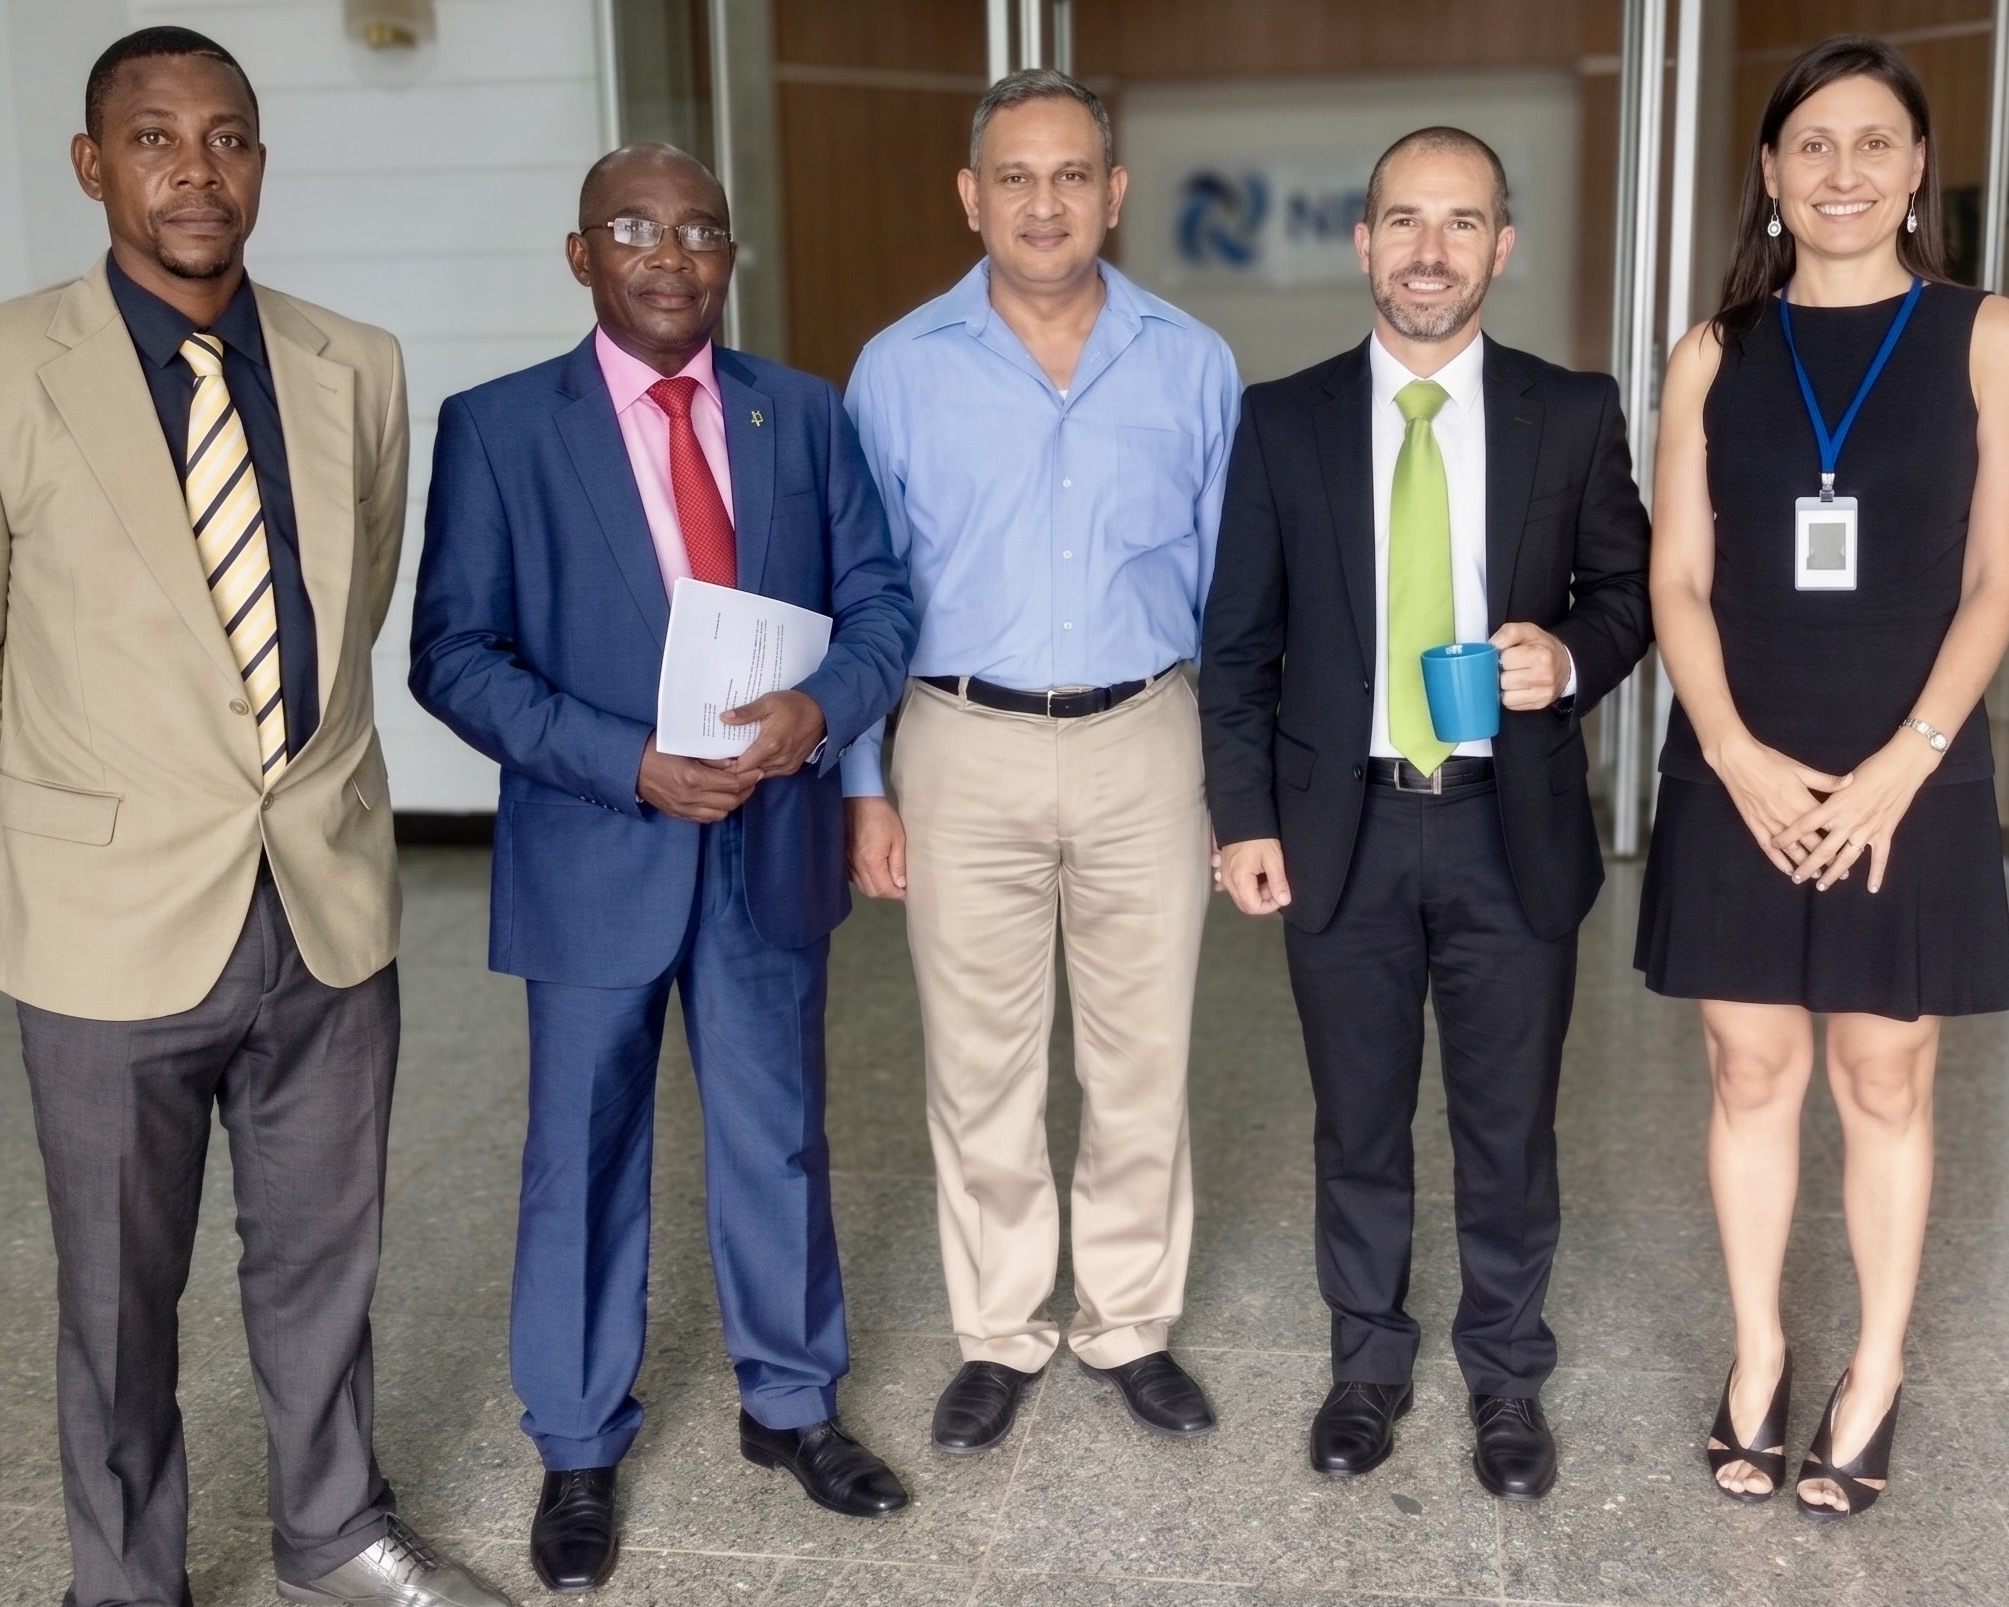
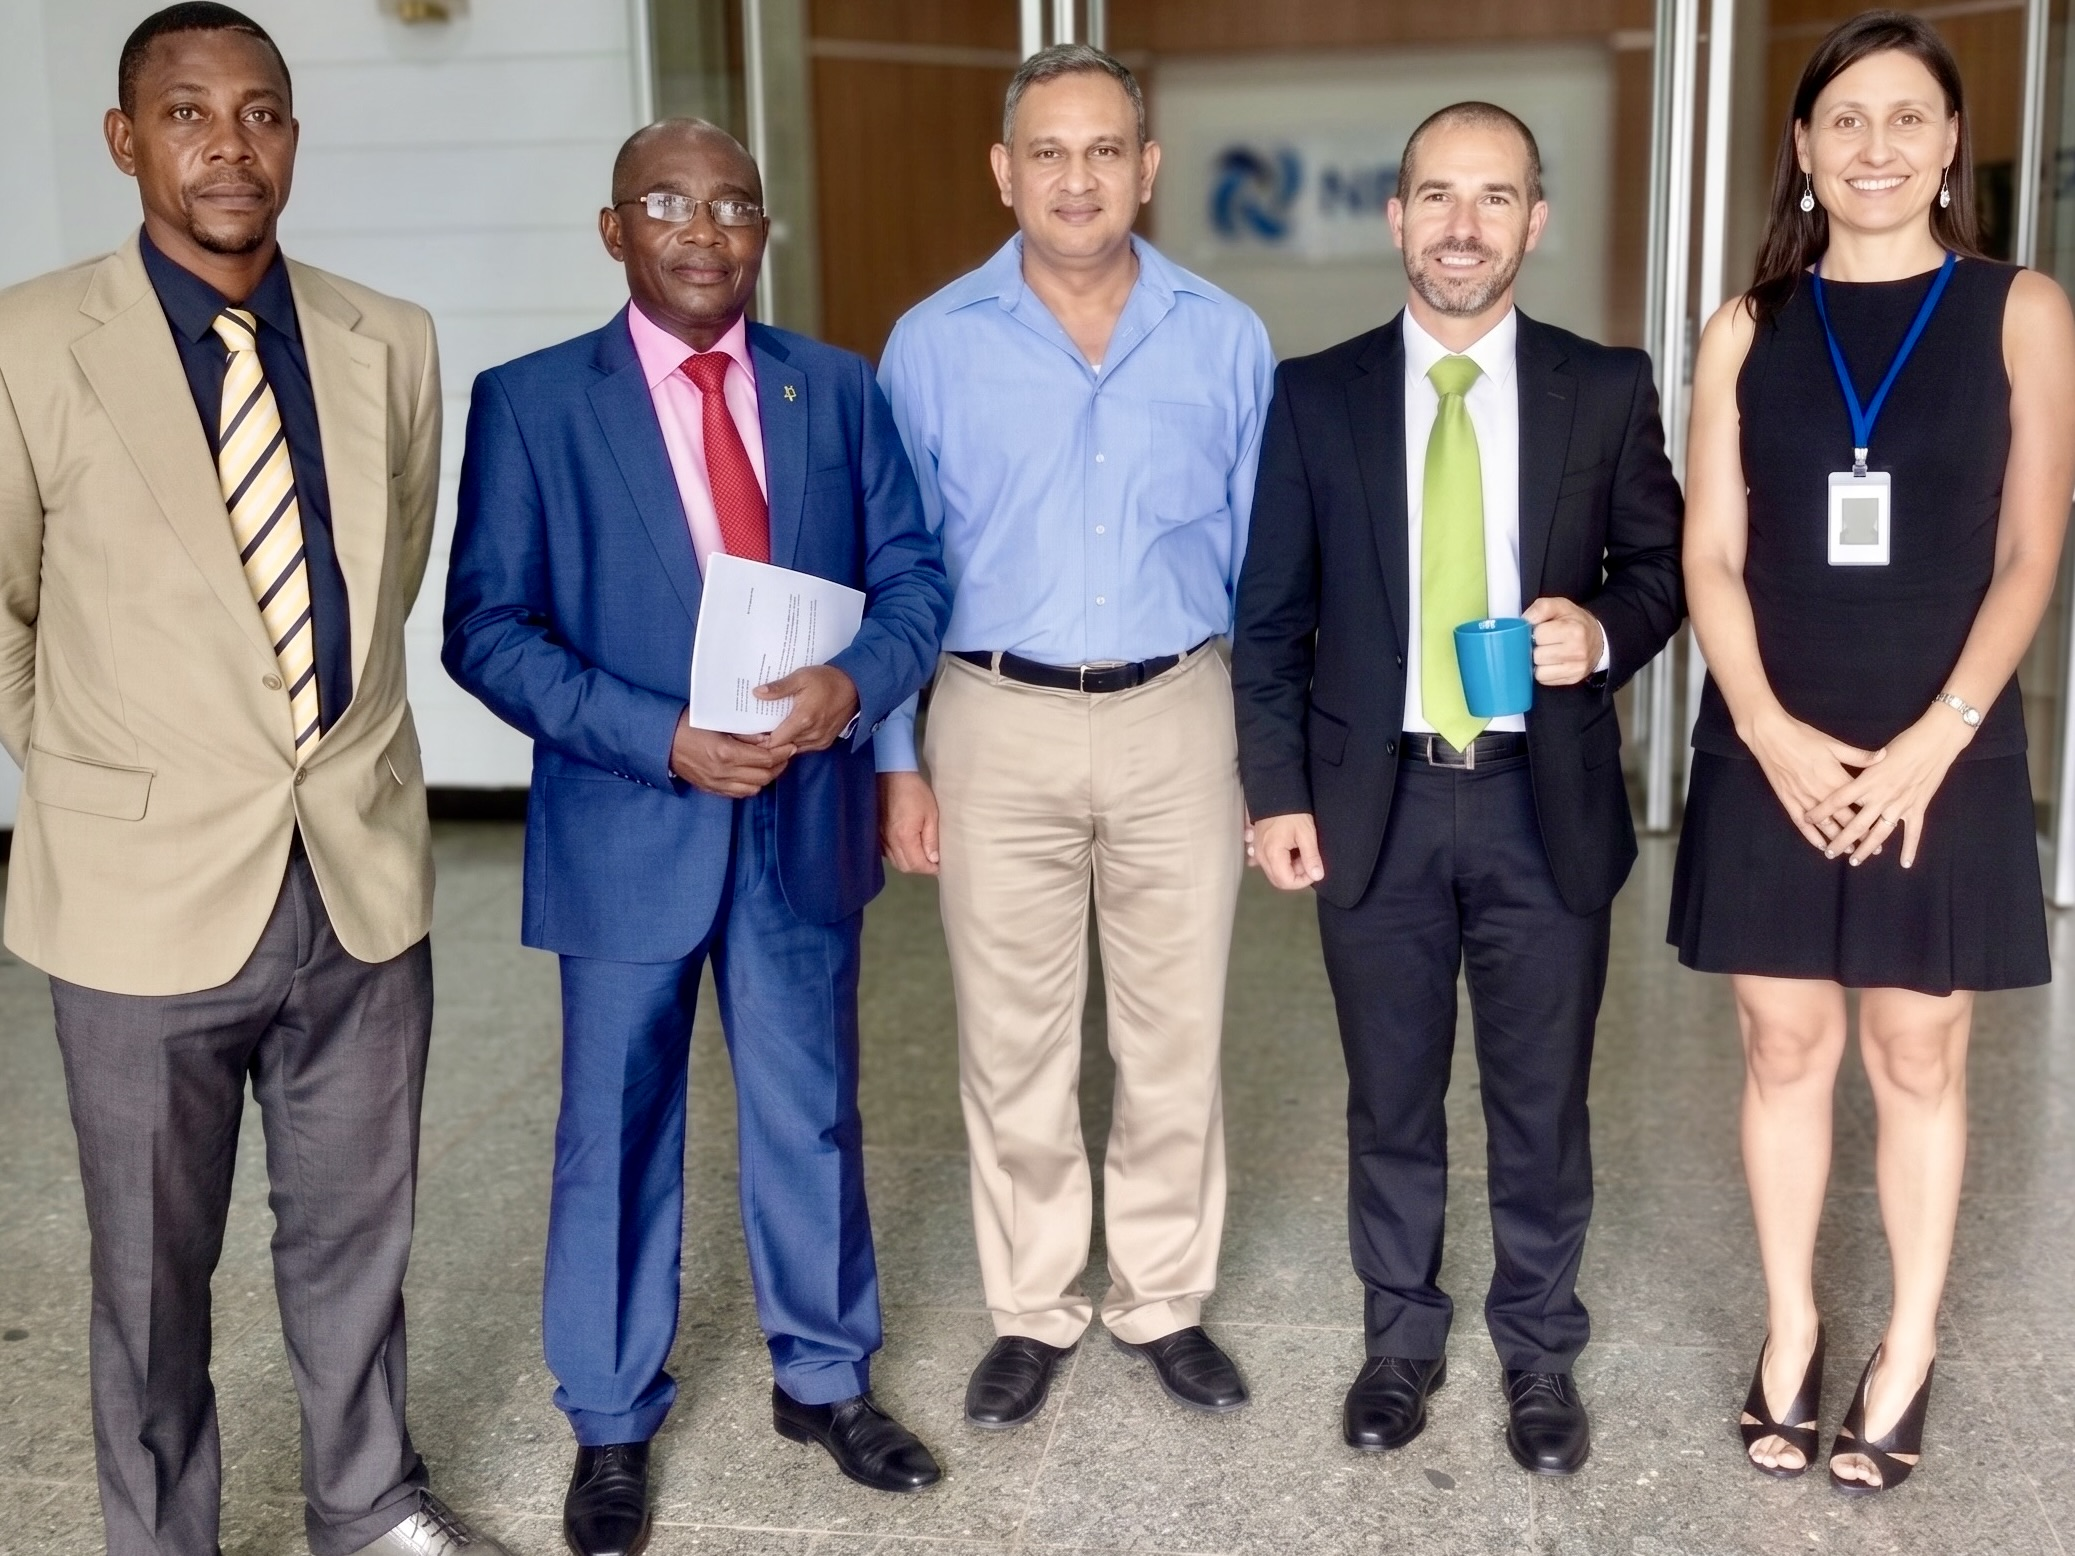
Add files via upload

diff --git a/index.html b/index.html
@@ -119,8 +119,8 @@
                         <h4 class="text-brand-dark font-bold text-2xl md:text-3xl mb-3">Trabajo de Campo</h4>
                         <p class="text-gray-600 text-base md:text-lg leading-relaxed max-w-4xl">Despliegue logístico y colecta de datos sobre el terreno.</p>
                     </div>
-                    <div class="relative h-[300px] md:h-[550px] lg:h-[750px] w-full overflow-hidden rounded-lg shadow-xl bg-black group">
-                        <img id="rotator-campo" src="img/campo-1.jpg" alt="Trabajo de campo" class="w-full h-full object-cover transition-all duration-500 ease-in-out opacity-100 group-hover:scale-105">
+                    <div class="relative w-full aspect-[4/3] overflow-hidden rounded-lg shadow-xl bg-black group">
+                        <img id="rotator-campo" src="img/campo-1.jpg" alt="Trabajo de campo" class="w-full h-full object-contain transition-all duration-500 ease-in-out opacity-100 group-hover:scale-102">
                     </div>
                 </div>
 
@@ -129,8 +129,8 @@
                         <h4 class="text-brand-dark font-bold text-2xl md:text-3xl mb-3">Capacitación Técnica</h4>
                         <p class="text-gray-600 text-base md:text-lg leading-relaxed max-w-4xl">Formación especializada a técnicos y supervisores, garantizando la transferencia de conocimiento tecnológico y la sostenibilidad operativa local.</p>
                     </div>
-                    <div class="relative h-[300px] md:h-[550px] lg:h-[750px] w-full overflow-hidden rounded-lg shadow-xl bg-black group">
-                        <img id="rotator-formacion" src="img/formacion-1.jpg" alt="Formación de agentes" class="w-full h-full object-cover transition-all duration-500 ease-in-out opacity-100 group-hover:scale-105">
+                    <div class="relative w-full aspect-[4/3] overflow-hidden rounded-lg shadow-xl bg-black group">
+                        <img id="rotator-formacion" src="img/formacion-1.jpg" alt="Formación de agentes" class="w-full h-full object-contain transition-all duration-500 ease-in-out opacity-100 group-hover:scale-102">
                     </div>
                 </div>
 
@@ -139,8 +139,8 @@
                         <h4 class="text-brand-dark font-bold text-2xl md:text-3xl mb-3">Modernización Administrativa</h4>
                         <p class="text-gray-600 text-base md:text-lg leading-relaxed max-w-4xl">Implementación de soluciones tecnológicas integrales para instituciones gubernamentales.</p>
                     </div>
-                    <div class="relative h-[300px] md:h-[550px] lg:h-[750px] w-full overflow-hidden rounded-lg shadow-xl bg-black group">
-                        <img id="rotator-modernizacion" src="img/modernizacion-1.jpg" alt="Modernización Administrativa" class="w-full h-full object-cover transition-all duration-500 ease-in-out opacity-100 group-hover:scale-105">
+                    <div class="relative w-full aspect-[4/3] overflow-hidden rounded-lg shadow-xl bg-black group">
+                        <img id="rotator-modernizacion" src="img/modernizacion-1.jpg" alt="Modernización Administrativa" class="w-full h-full object-contain transition-all duration-500 ease-in-out opacity-100 group-hover:scale-102">
                     </div>
                 </div>
 
@@ -149,8 +149,8 @@
                         <h4 class="text-brand-dark font-bold text-2xl md:text-3xl mb-3">Impacto Institucional</h4>
                         <p class="text-gray-600 text-base md:text-lg leading-relaxed max-w-4xl">Procesamiento final y entrega de resultados definitivos, aportando inteligencia para la toma de decisiones, transformando el dato crudo en políticas de desarrollo.</p>
                     </div>
-                    <div class="relative h-[300px] md:h-[550px] lg:h-[750px] w-full overflow-hidden rounded-lg shadow-xl bg-black group">
-                        <img id="rotator-impacto" src="img/impacto-1.jpg" alt="Entrega de resultados" class="w-full h-full object-cover transition-all duration-500 ease-in-out opacity-100 group-hover:scale-105">
+                    <div class="relative w-full aspect-[4/3] overflow-hidden rounded-lg shadow-xl bg-black group">
+                        <img id="rotator-impacto" src="img/impacto-1.jpg" alt="Entrega de resultados" class="w-full h-full object-contain transition-all duration-500 ease-in-out opacity-100 group-hover:scale-102">
                     </div>
                 </div>
 
@@ -159,8 +159,8 @@
                         <h4 class="text-brand-dark font-bold text-2xl md:text-3xl mb-3">Proyectos Tecnológicos Estratégicos</h4>
                         <p class="text-gray-600 text-base md:text-lg leading-relaxed max-w-4xl">Desarrollo e ingeniería aplicados a la inclusión digital. Ejecución de proyectos macro de divulgación y aplicaciones a medida para la ciudadanía.</p>
                     </div>
-                    <div class="relative h-[300px] md:h-[550px] lg:h-[750px] w-full overflow-hidden rounded-lg shadow-xl bg-black group">
-                        <img id="rotator-estrategico" src="img/estrategico-1.jpg" alt="Proyectos Estratégicos" class="w-full h-full object-cover transition-all duration-500 ease-in-out opacity-100 group-hover:scale-105">
+                    <div class="relative w-full aspect-[4/3] overflow-hidden rounded-lg shadow-xl bg-black group">
+                        <img id="rotator-estrategico" src="img/estrategico-1.jpg" alt="Proyectos Estratégicos" class="w-full h-full object-contain transition-all duration-500 ease-in-out opacity-100 group-hover:scale-102">
                     </div>
                 </div>
 
@@ -169,8 +169,8 @@
                         <h4 class="text-brand-dark font-bold text-2xl md:text-3xl mb-3">Gobernanza y Comités Internacionales</h4>
                         <p class="text-gray-600 text-base md:text-lg leading-relaxed max-w-4xl">Defensa técnica y asistencia especializada ante agencias de las Naciones Unidas y comités de supervisión nacional o internacional. Garantizamos la aplicación de procedimientos de trabajo y el control de calidad bajo estándares internacionales.</p>
                     </div>
-                    <div class="relative h-[300px] md:h-[550px] lg:h-[750px] w-full overflow-hidden rounded-lg shadow-xl bg-black group">
-                        <img id="rotator-internacional" src="img/internacional-1.jpg" alt="Comités Internacionales" class="w-full h-full object-cover transition-all duration-500 ease-in-out opacity-100 group-hover:scale-105">
+                    <div class="relative w-full aspect-[4/3] overflow-hidden rounded-lg shadow-xl bg-black group">
+                        <img id="rotator-internacional" src="img/internacional-1.jpg" alt="Comités Internacionales" class="w-full h-full object-contain transition-all duration-500 ease-in-out opacity-100 group-hover:scale-102">
                     </div>
                 </div>
 
@@ -226,8 +226,12 @@
 
     <script>
         document.addEventListener('DOMContentLoaded', () => {
+            // Matriz actualizada con campo-1 hasta campo-8
             const carousels = {
-                'rotator-campo': ['img/campo-1.jpg', 'img/campo-2.jpg', 'img/campo-3.jpg', 'img/campo-4.jpg', 'img/campo-5.jpg'],
+                'rotator-campo': [
+                    'img/campo-1.jpg', 'img/campo-2.jpg', 'img/campo-3.jpg', 'img/campo-4.jpg', 
+                    'img/campo-5.jpg', 'img/campo-6.jpg', 'img/campo-7.jpg', 'img/campo-8.jpg'
+                ],
                 'rotator-formacion': ['img/formacion-1.jpg', 'img/formacion-2.jpg', 'img/formacion-3.jpg', 'img/formacion-4.jpg', 'img/formacion-5.jpg', 'img/formacion-6.jpg'],
                 'rotator-modernizacion': ['img/modernizacion-1.jpg', 'img/modernizacion-2.jpg', 'img/modernizacion-3.jpg'],
                 'rotator-impacto': ['img/impacto-1.jpg', 'img/impacto-2.jpg', 'img/impacto-3.jpg', 'img/impacto-4.jpg'],
@@ -235,7 +239,7 @@
                 'rotator-internacional': ['img/internacional-1.jpg', 'img/internacional-2.jpg', 'img/internacional-3.jpg']
             };
 
-            let staggerDelay = 0; // Desfase inicial
+            let staggerDelay = 0; 
 
             Object.keys(carousels).forEach(id => {
                 const imgElement = document.getElementById(id);
@@ -243,7 +247,6 @@
                 
                 if (!imgElement || imageArray.length <= 1) return;
 
-                // 1. Precarga silenciosa en la memoria caché del navegador local para evitar tirones
                 imageArray.forEach(src => {
                     const img = new Image();
                     img.src = src;
@@ -251,24 +254,19 @@
 
                 let currentIndex = 0;
 
-                // 2. Aplicamos el efecto cascada (stagger) para que no cambien todas a la vez
                 setTimeout(() => {
                     setInterval(() => {
-                        // Inicia el desvanecimiento bajando la opacidad
                         imgElement.style.opacity = '0.1';
                         
                         setTimeout(() => {
-                            // Cambia la imagen en el valle de la opacidad
                             currentIndex = (currentIndex + 1) % imageArray.length;
                             imgElement.src = imageArray[currentIndex];
-                            // Vuelve a encender la luz
                             imgElement.style.opacity = '1';
-                        }, 500); // 500ms exactos para coincidir con el duration-500 de Tailwind
+                        }, 500); 
                         
-                    }, 4000); // Rotación general cada 4 segundos
+                    }, 4000); 
                 }, staggerDelay);
 
-                // Incrementa el desfase para el siguiente bloque
                 staggerDelay += 600; 
             });
         });